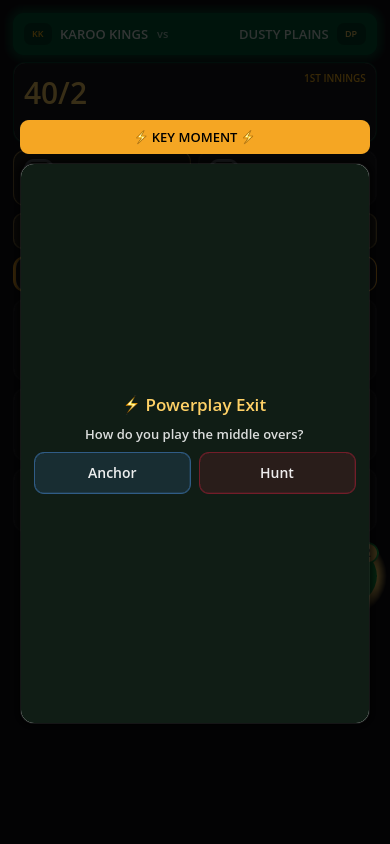
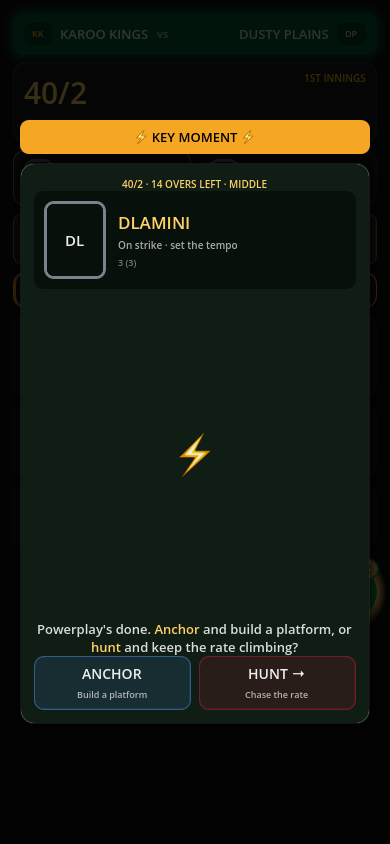
feat: in-match hi-fi v2 — enriched Key Moment card + labelled bowler econ (design amendment) (#90)
Applies design's v2 deltas (docs/design-inbox/in-match-v2.md) on top of v1:
- Key Moment card body filled per spec: ctx line · actor mini-card (portrait ring
  w/ real ★ + name + job tag + real stats) · scene glyph as the expand row (kills
  the dead gap) · narration with gold-highlighted options (RichText) · two choices
  with verb + stake sublabels. Boost/DRS still functional (DRS card enrich + the
  Boost-as-card are noted for the loop — Boost is an instant dock press here, no card).
- Batting KM copy = design's verbatim verbs/stakes (mechanic = intent band, label
  is free). Bowling KM keeps the REAL Pace/Spin labels (the lever that re-sims) —
  design's attack/contain framing is a different mechanic, flagged not swapped.
- Bowler row: removed fabricated wkts/runs; right side now a labelled ECON (real),
  stat line = stars only. Every value real.
- 681 green. Re-rendered docs/mockups/latest/in-match.png + the keymoment/result shots.

diff --git a/docs/design-inbox/in-match-v2.md b/docs/design-inbox/in-match-v2.md
@@ -1,0 +1,123 @@
+# AMENDMENT → in-match v2 (deltas on top of merged v1 / PR #88)
+
+> Review answered: `docs/design-inbox/in-match-REVIEW.md`. The v1 build is a faithful skeleton —
+> these are **deltas**, not a re-spec. Apply on top of v1; everything not mentioned here is locked as built.
+> Fresh reference attached: **`Key Moment Card - enriched reference.png`** (the enriched card on the same
+> `40/2 · Powerplay Exit` fixture you built, + the 6-variant content matrix). No new Palette/UIStyle tokens
+> are needed for any of this.
+
+---
+
+## 1 · Key Moment card — fill the body  ⟵ the #1 ask
+
+The card currently renders **title + question + two bare buttons** floating mid-card with ~50% dead
+vertical space. The v1 spec already describes the full card body in the Overlay System section, but it
+landed as the minimum. **It was under-built, not mis-built** — pin it explicitly:
+
+### Card body anatomy (top → bottom), inside `moment_card`, `14px` pad
+The MomentCard is a VBox with **`alignment` distributing top vs bottom** (Godot: put the Scene row on
+`size_flags_vertical = EXPAND`, everything else shrink). Result = ctx+actor pinned to the top, narr+choices
+pinned to the bottom, the glyph eats the slack between them. **No dead gap.**
+
+```
+MomentCard (PanelContainer, expand, moment_card(:moment), radius 13, pad 14)
+└─ VBox (separation 0; Scene child carries the expand)
+   ├─ Ctx     Label   — 10px UPPER, +1.6 tracking, GOLD, centered
+   │                    text = "{score} · {overs} overs left · {phase}"   e.g. "40/2 · 13 overs left · middle"
+   ├─ Actor   PanelContainer (inner) — bg Color(0,0,0,0.45), radius 9, pad 10, HBox gap 12, margin-top 10
+   │          ├─ Portrait 62×78, portrait_ring(Palette.skill_ring(stars))   ← SAME ring token as the batter chips, bigger size
+   │          └─ VBox: Name 17/800 GOLD · Tag 10 WHITE_MID · Stats 9 UPPER WHITE_DIM
+   │                   Stats = "{runs} ({balls}) · OVR {ovr}"   (batting)  /  "{figs} · OVR {ovr}"  (bowling)
+   ├─ Scene   Label (EXPAND, centered) — emoji ~42px   ← the only expanding row; per-variant glyph
+   ├─ Narr    Label — 13px italic, centered, WHITE_SOFT, BBCode [b]→GOLD; margin-bottom 12
+   └─ Choices HBox separation 8 — two Choice buttons:
+              VBox[ Verb 14/800 · Stake 9 WHITE_MID ]    ← Stake sublabel is the missing legibility piece
+```
+
+Deltas vs what's built:
+- **ADD the Ctx line** (was absent).
+- **ADD the Actor mini-card** — portrait + name + tag + stats. This is the single biggest gap.
+- **ADD the Scene glyph** as the expand row (also fixes the dead space).
+- **Narr**: keep it a sentence that *names both options in prose* (not a bare "How do you play the middle overs?").
+- **Choices**: keep the verbs, **add the stake sublabel** under each. Accents unchanged: left `BLUE`, right `RED`.
+
+### Actor binding
+- **Batting moments** → actor = the **on-strike batter**. Tag = their job this ball.
+- **Bowling moments** → actor = **your bowler**. Tag = their job this ball.
+- Portrait ring = that player's `★` tier (reuse `Palette.skill_ring`). Stats line is real (runs/balls or figures + OVR).
+
+### Variant content matrix (glyph · narration · two choices w/ stakes)
+Bind by `keyMoment.type`. Verbs/stakes are the shipped copy — use verbatim.
+
+**Batting (you're batting):**
+
+| type | glyph | phase word | narration (`[b]`=gold) | left verb / stake | right verb / stake |
+|---|---|---|---|---|---|
+| Powerplay Exit (ov 7) | ⚡ | middle | Powerplay's done. **Anchor** and build a platform, or **hunt** and keep the rate climbing? | ← ANCHOR / Build a platform | HUNT → / Chase the rate |
+| Wicket Crisis (1st middle wkt) | 🩸 | rebuild | Wicket down. **Rebuild** and protect the innings, or **counter-attack** and seize the momentum? | ← REBUILD / Protect wickets | COUNTER → / Seize momentum |
+| Death Plan (ov 16) | 💀 | death | Death overs. **Twos & fours** for a reliable 50+, or **six-or-bust** and go boom-or-bust? | ← 2s & 4s / Reliable 50+ | BIG HITS → / Boom or bust |
+
+**Bowling (you're defending):**
+
+| type | glyph | phase word | narration | left verb / stake | right verb / stake |
+|---|---|---|---|---|---|
+| Powerplay Exit (ov 7) | 🎯 | field set | Powerplay over. **Attack** with slips and catchers, or **contain** and protect the boundary? | ← ATTACK / Slips in | CONTAIN → / Spread the field |
+| New Batsman In | 🔥 | fresh batter | New man in. **Bounce** him and test the technique, or **york** him and go for the stumps? | ← BOUNCER / Test technique | YORKER → / Go for stumps |
+| Death Defence (ov 16) | 💀 | death defence | Defending at the death. **Yorkers** for low risk, or **slower balls** to force the miscue? | ← YORKERS / Low risk | SLOWER → / Force the error |
+
+**Boost & DRS overlays reuse this exact same card skeleton** (already built that way). So once the Key Moment
+card carries actor + scene + narr + stakes, **Boost and DRS inherit it for free** — confirm they pick up the
+same layout (Boost: actor = "YOUR CALL", green accents; DRS: actor = your dismissed batsman, accept=RED/review=BLUE).
+
+---
+
+## 2 · Bowler row — drop the fake figures, lead with econ  ✅ accept the sim constraint
+
+Your sim is statistical and doesn't track opposition bowler wickets, so `1/24` was never real. **Don't invent it.**
+Re-cut the row so every value is real:
+
+- **REMOVE** the `wkts/runs (overs)` figure block on the right.
+- **Right-side figure** = the real **economy**: `ECON` microlabel (8px UPPER `WHITE_DIM`) above the number,
+  econ value 15px/800 `WHITE` tabular. This makes the bare "7.2" read as a labelled stat, not a mystery number.
+- Stat line stays: `type · n★ · econ`. Drop the duplicate "econ" word from the stat line now that the
+  figure is labelled (so it reads `spin · 4★` on the left, `ECON 7.2` on the right).
+- Everything else (opponent-amber tint, name in `opp_accent`) unchanged.
+
+This is exactly what the build already approximated — just formalising it so the row never implies tracked figures it doesn't have.
+
+---
+
+## 3 · Player names — keep as flavour, no visual signal  ✅
+
+Names are flavour, numbers are real — **don't** style the scorecard to flag this. Visually distinguishing
+"fake" names would break immersion and add noise for zero player benefit. Leave names as-is.
+(Squad confirm is still open — use the season-hub fixture-1 squad when it lands; keep current placeholders until then.)
+
+---
+
+## 4 · Fonts — name the face + weights
+
+Adopt **Barlow Semi Condensed** (Google Fonts, free) across the whole In-Match screen. It's tabular,
+sporty, and ships the full weight range the spec leans on. Map the spec's weights:
+
+| spec weight | Barlow SC weight | used for |
+|---|---|---|
+| /900 | 800 ExtraBold | result headline |
+| /800 | 700 Bold | scores, names, figures, verbs, banners, micro-labels |
+| /700 | 600 SemiBold | panel labels |
+| /600 | 500 Medium | "vs", secondary meta |
+| body | 400 Regular | commentary, narration (italic = Barlow SC Italic 400) |
+
+All numerals stay tabular (`font_features` / lining). If you'd rather keep one face for numerals only,
+Barlow Semi Condensed already has clean lining figures — no second face needed.
+
+---
+
+## Net token impact: **none.** Everything above reuses shipped tokens
+(`moment_card`, `portrait_ring`, `skill_ring`, gold/blue/red/green choice accents, `panel`). The only
+non-token change is loading the Barlow Semi Condensed font resource.
+
+## Re-render targets after applying
+`docs/mockups/latest/in-match.png` (auto-sim) is fine as-is — the deltas above are mostly the overlay states.
+Please re-render **`...-keymoment.png`** (it's the one that changes most) and a Boost shot so we can confirm
+the card body inheritance. Then we loop.
